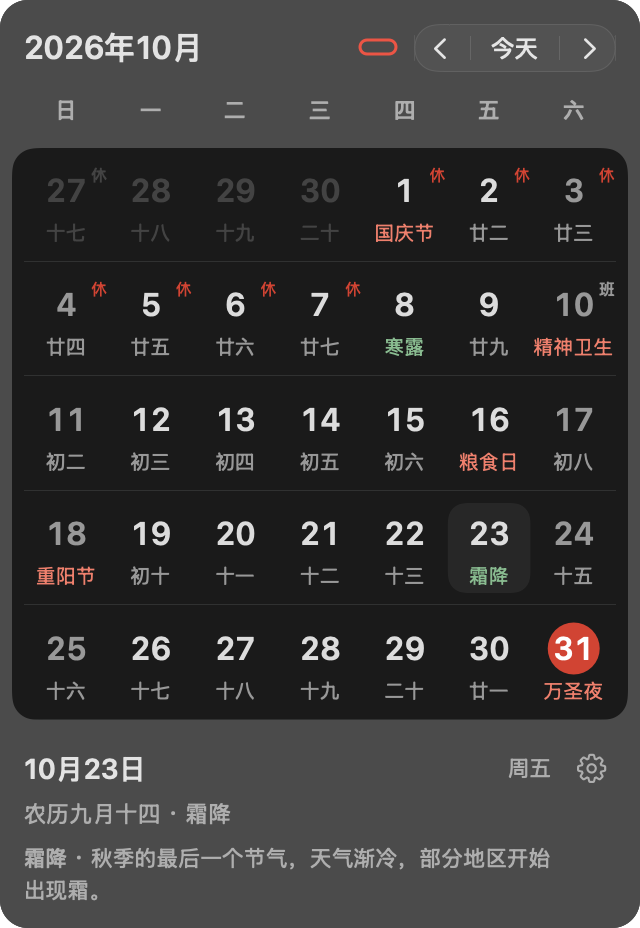
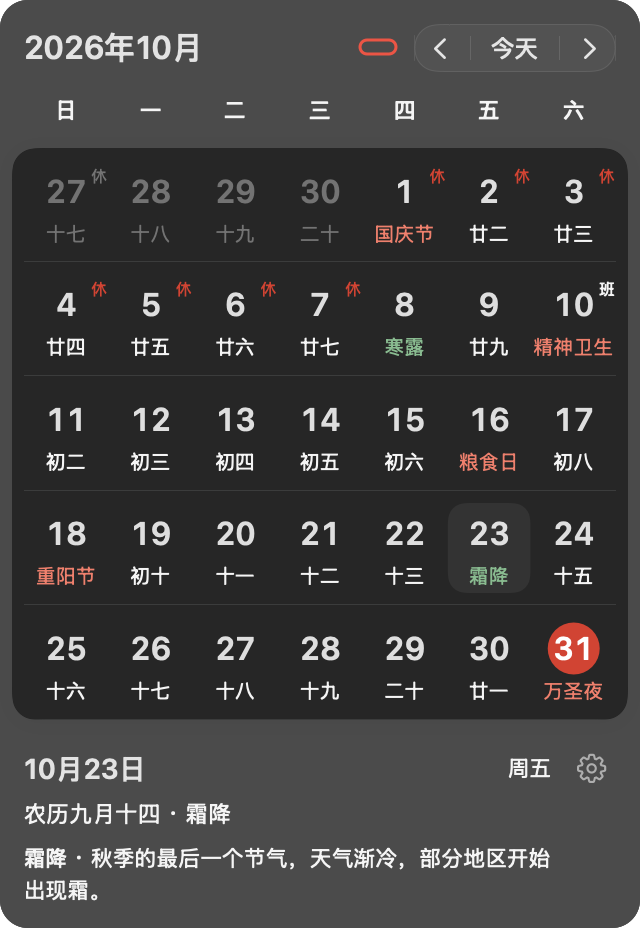
fix(calendar): 将首周选中背景顶部间距统一为6.5点
首周日期、农历和日程标记共用固定顶部位置，六周月份从后续周分配留白，保持整月高度及详情上下8点、6点间距。
补充首周48种界面场景检查，更新布局参考、决策记录和真实展示图。

验证：调试应用构建、日程内容、月年网格、月初吸附、系统日程专项和差异空白检查通过。
切档动画专项未通过：当前版本出现像素交接误差及准备阶段顶部位移；修改前基线也在快速切档顶部位移检查失败，尚不能确认该专项稳定。本次提交复用此前验证结果，未重复运行未受后续修改影响的专项。

diff --git a/Sources/DayOrder/CalendarFirstWeekSmoke.swift b/Sources/DayOrder/CalendarFirstWeekSmoke.swift
@@ -1,0 +1,123 @@
+#if DEBUG
+import AppKit
+import DayOrderCore
+
+@MainActor enum CalendarFirstWeekSmoke {
+    static func verify(model: CalendarModel, presentation: CalendarPresentationController,
+                       source: SmokeCalendarSource, defaults: UserDefaults, directory: URL,
+                       save: (NSView, String) throws -> Void) async throws {
+        func require(_ value: Bool, _ message: String) throws {
+            guard value else { throw NSError(domain: "DayOrder.FirstWeek", code: 1,
+                userInfo: [NSLocalizedDescriptionKey: message]) }
+        }
+        func descendants(_ view: NSView) -> [NSView] { [view] + view.subviews.flatMap(descendants) }
+        func finish() async throws {
+            try await Task.sleep(for: .milliseconds(100))
+            let deadline = Date().addingTimeInterval(5)
+            while model.events.loading || presentation.isTransitioning {
+                try require(Date() < deadline, "首周布局未及时就绪")
+                if presentation.isPreparedForSampling {
+                    presentation.sampleGeometry(deltaTime: 1)
+                    presentation.finishGeometrySampling()
+                }
+                try await Task.sleep(for: .milliseconds(10))
+            }
+            presentation.view.layoutSubtreeIfNeeded()
+            presentation.view.display()
+        }
+        let selection = model.selection
+        let weekday = defaults.object(forKey: "firstWeekday")
+        let appearance = defaults.object(forKey: "appearance")
+        let clock = presentation.controlsAnimationClock
+        presentation.controlsAnimationClock = true
+        defer {
+            presentation.cancelTransition()
+            presentation.controlsAnimationClock = clock
+            model.closeAgenda()
+            model.events.choose(.hidden)
+            defaults.set(weekday, forKey: "firstWeekday")
+            defaults.set(appearance, forKey: "appearance")
+            model.select(selection)
+        }
+        var report: [[String: Any]] = []
+        for (year, month, firstWeekday, count) in [(2026, 2, 1, 4), (2026, 9, 1, 5), (2026, 8, 1, 6),
+                                                  (2021, 2, 2, 4), (2026, 9, 2, 5), (2026, 3, 2, 6)] {
+            defaults.set(firstWeekday, forKey: "firstWeekday")
+            let date = model.engine.date(year, month, 1)
+            let values = (-7..<38).flatMap { offset in
+                (0..<2).map { lane in
+                    let start = model.engine.addingDays(offset, to: date).addingTimeInterval(Double(9 + lane) * 3600)
+                    return CalendarEvent(id: "first-week-\(offset)-\(lane)", title: "日程 \(lane + 1)",
+                        start: start, end: start.addingTimeInterval(1800), allDay: false,
+                        color: .init(red: 0.3, green: 0.45, blue: 0.95), calendarTitle: "测试日历")
+                }
+            }
+            await source.configure(access: .fullAccess, values: values)
+            model.select(date)
+            for mode in [CalendarEventDisplay.hidden, .detailed, .compact, .dots] {
+                model.events.choose(mode)
+                for style in ["light", "dark"] {
+                    defaults.set(style, forKey: "appearance")
+                    try await finish()
+                    guard let table = descendants(presentation.host.view).compactMap({ $0 as? NSTableView })
+                        .first(where: { $0.identifier?.rawValue == "calendarTimeline" }),
+                          let scroll = table.enclosingScrollView else { throw CocoaError(.coderInvalidValue) }
+                    let timeline = model.calendarTimeline(firstWeekday: firstWeekday)
+                    let rows = timeline.weekRows(inMonth: model.engine.monthStart(date))!
+                    try require(rows.count == count, "首周验证月份的周数错误")
+                    let top = table.rect(ofRow: rows.lowerBound).minY
+                    let bottom = table.rect(ofRow: rows.upperBound - 1).maxY
+                    try require(abs(bottom - top - mode.viewportHeight) < 0.01, "首周调整改变整月高度")
+                    try require(abs(table.visibleRect.minY - top) < 0.5, "首周没有对齐卡片顶部")
+                    guard let week = table.view(atColumn: 0, row: rows.lowerBound, makeIfNecessary: true) as? CalendarWeekView,
+                          let button = week.subviews.compactMap({ $0 as? CalendarDayButton }).first(where: { $0.date == date })
+                    else { throw CocoaError(.coderInvalidValue) }
+                    let selected = scroll.convert(button.focusRingMaskBounds, from: button)
+                    let inset = selected.minY - scroll.bounds.minY
+                    // 周内几何精确检查；原生表格累计坐标和滚动视口各自对齐屏幕像素。
+                    let pixel = 1 / (scroll.window?.backingScaleFactor ?? 2)
+                    try require(abs(button.frame.minY + button.focusRingMaskBounds.minY - 6.5) < 0.01
+                                && abs(inset - 6.5) <= pixel + 0.001,
+                                "首周选中灰底顶部间距应为 6.5 pt，实际 \(inset)，\(year)-\(month)，\(mode)")
+                    for row in rows {
+                        guard let view = table.view(atColumn: 0, row: row, makeIfNecessary: true) as? CalendarWeekView
+                        else { throw CocoaError(.coderInvalidValue) }
+                        view.layoutSubtreeIfNeeded()
+                        for day in view.subviews.compactMap({ $0 as? CalendarDayButton }) {
+                            let last = max(day.focusRingMaskBounds.maxY, day.eventMarkers.map { $0.style.frame.maxY }.max() ?? 0)
+                            try require(day.frame.minY >= 0 && day.frame.minY + last <= view.bounds.height - 0.5,
+                                        "日期或日程标记越过周分隔线：第 \(row - rows.lowerBound + 1) 周")
+                        }
+                    }
+                    if mode != .hidden {
+                        let originalTop = button.frame.minY
+                        try require(button.accessibilityPerformPress(), "首周日期无法展开")
+                        try await finish()
+                        let agenda = week.agendaView
+                        let contentBottom = week.subviews.compactMap({ $0 as? CalendarDayButton }).map { day in
+                            day.frame.minY + max(day.focusRingMaskBounds.maxY, day.eventMarkers.map { $0.style.frame.maxY }.max() ?? 0)
+                        }.max()!
+                        try require(!agenda.isHidden && abs(button.frame.minY - originalTop) < 0.01,
+                                    "首周展开改变日期位置")
+                        try require(abs(agenda.frame.minY + 4 - contentBottom - 8) < 0.01,
+                                    "首周日程顶部间距不是 8 pt")
+                        let backgroundBottom = agenda.frame.maxY - CalendarDayAgendaLayout.backgroundBottomInset
+                        try require(abs(week.bounds.height - 0.5 - backgroundBottom - 6) < 0.01,
+                                    "首周日程底部间距不是 6 pt")
+                        if count == 6 && firstWeekday == 1 {
+                            try save(presentation.view, "first-week-\(mode)-\(style)-expanded")
+                        }
+                        model.closeAgenda()
+                        try await finish()
+                    }
+                    report.append(["year": year, "month": month, "firstWeekday": firstWeekday,
+                                   "weeks": count, "mode": "\(mode)", "appearance": style, "topInset": inset,
+                                   "monthHeight": bottom - top])
+                }
+            }
+        }
+        try JSONSerialization.data(withJSONObject: report, options: [.prettyPrinted, .sortedKeys])
+            .write(to: directory.appendingPathComponent("first-week-geometry.json"))
+    }
+}
+#endif

diff --git a/Sources/DayOrder/CalendarTimelineView.swift b/Sources/DayOrder/CalendarTimelineView.swift
@@ -483,18 +483,24 @@ struct CalendarTimelineView: NSViewRepresentable {
             switch timeline.rows[row] {
             case .month: return 30
             case .week:
-                let base = baseWeekHeight(row, in: tableView)
-                guard agendaRow == row else { return base }
-                let dateTop = (base - 46 - eventMode.extraRowHeight) / 2
-                return dateTop + agendaContentBottom + 4 + agendaHeight
+                let layout = weekLayout(row, in: tableView)
+                guard agendaRow == row else { return layout.height }
+                return layout.dateTop + agendaContentBottom + 4 + agendaHeight
             }
         }
-        private func baseWeekHeight(_ row: Int, in tableView: NSTableView) -> CGFloat {
+        private func weekLayout(_ row: Int, in tableView: NSTableView) -> (height: CGFloat, dateTop: CGFloat) {
             let weeks = timeline.weekRows(inMonth: timeline.rows[row].sectionMonth)!
             let scale = tableView.window?.backingScaleFactor ?? 2
-            let unit = eventMode.viewportHeight * scale / CGFloat(weeks.count)
-            let index = CGFloat(row - weeks.lowerBound)
-            return (floor((index + 1) * unit) - floor(index * unit)) / scale
+            let contentHeight = CalendarDayButton.feedbackHeight + eventMode.extraRowHeight
+            let firstTop = CalendarTimelineView.contentInset
+            let total = eventMode.viewportHeight * scale
+            // 六周月份为首周顶部留白腾出空间，日期与标记仍完整位于分隔线上方。
+            let first = max(floor(total / CGFloat(weeks.count)), ceil((firstTop + contentHeight + 0.5) * scale))
+            if row == weeks.lowerBound { return (first / scale, firstTop) }
+            let unit = (total - first) / CGFloat(weeks.count - 1)
+            let index = CGFloat(row - weeks.lowerBound - 1)
+            let height = (floor((index + 1) * unit) - floor(index * unit)) / scale
+            return (height, (height - contentHeight) / 2)
         }
 
         func tableView(_ tableView: NSTableView, shouldSelectRow row: Int) -> Bool { false }
@@ -537,7 +543,7 @@ struct CalendarTimelineView: NSViewRepresentable {
                 days[start] = values
             }
             view.configure(days: values, sectionMonth: sectionMonth, model: model, options: options,
-                           baseHeight: baseWeekHeight(row, in: table!), contentBottom: agendaContentBottom)
+                           dateTop: weekLayout(row, in: table!).dateTop, contentBottom: agendaContentBottom)
         }
     }
 }
@@ -564,7 +570,7 @@ final class CalendarWeekView: NSView {
     private let buttons = (0..<7).map { _ in CalendarDayButton(frame: .zero) }
     let agendaView = CalendarDayAgendaView(frame: .zero)
     private var agendaHeight: CGFloat = 0
-    private var baseHeight: CGFloat = 0
+    private var dateTop: CGFloat = 0
     private var contentBottom: CGFloat = 46
     override var isFlipped: Bool { true }
 
@@ -594,8 +600,8 @@ final class CalendarWeekView: NSView {
     }
 
     func configure(days: [DayInfo], sectionMonth: Date, model: CalendarModel, options: CalendarContentOptions,
-                   baseHeight: CGFloat, contentBottom: CGFloat) {
-        self.baseHeight = baseHeight
+                   dateTop: CGFloat, contentBottom: CGFloat) {
+        self.dateTop = dateTop
         self.contentBottom = contentBottom
         let mode = model.events.mode
         if let agenda = model.agenda, agenda.month == sectionMonth,
@@ -635,7 +641,7 @@ final class CalendarWeekView: NSView {
         for (index, button) in buttons.enumerated() {
             let height = 46 + button.eventMode.extraRowHeight
             // 展开时裁去日期格底部空白，避免动画快照把详情重复裁入日期底图。
-            button.frame = NSRect(x: inset + CGFloat(index) * width, y: (baseHeight - height) / 2,
+            button.frame = NSRect(x: inset + CGFloat(index) * width, y: dateTop,
                                   width: width, height: agendaView.isHidden ? height : max(CalendarDayButton.feedbackHeight, contentBottom))
         }
         agendaView.frame = NSRect(x: inset, y: bounds.height - agendaHeight, width: bounds.width - 2 * inset, height: agendaHeight)

diff --git a/Sources/DayOrder/AppDelegate.swift b/Sources/DayOrder/AppDelegate.swift
@@ -285,6 +285,10 @@ final class AppDelegate: NSObject, NSApplicationDelegate {
                         source: source, directory: directory,
                         close: { self.panel.close() }, reopen: { self.showPanel() })
                 }
+                try await CalendarFirstWeekSmoke.verify(model: model, presentation: presentation, source: source,
+                    defaults: defaults, directory: directory) { view, name in
+                    try self.saveViewSnapshot(view, name: name, to: directory)
+                }
                 try await CalendarAgendaSmoke.verify(model: model, presentation: presentation, source: source,
                     defaults: defaults, directory: directory) { view, name in
                     try self.saveViewSnapshot(view, name: name, to: directory)

diff --git a/docs/verification.md b/docs/verification.md
@@ -26,7 +26,7 @@
 python3 scripts/run-smoke.py "$PWD/build/agenda-smoke" --calendar-agenda-smoke
 ```
 
-该检查通过生产日期按钮、原生周行和展示控制器，覆盖首次选择、再次展开／收起、展开动画与端点的窗口／可视区尺寸不变、底部详情固定、后续周行下移与收起归位、月末日程通过滚动日历完整可见、切日重置、12 项日程的内部滚动与到底提示、固定剩余数量提示、少量自适应和空状态、深浅色、周日／周一起始、月末跨日日程、快速反向、减少动态效果、设置与年概览返回、月份导航和 Esc 分层收起。导航回归通过真实“今天”按钮覆盖一月一日、今天和当月其他日期展开后滚动到邻月，再返回今天：记录 `agenda-navigation.json` 中的中间滚动位置，要求原详情保留且没有淡入过渡；选中日期与展开日期不同时，点击选中日期可切换详情。另覆盖从 2027 年 3 月返回 2026 年 11 月，先确认原日期离开查询范围，再要求一次点击到达目标；返回末段详情可见时注入事件更新，要求更新已生效且导航未被取消、没有详情淡入。通过生产弹窗关闭／打开入口验证清空与默认收起。设置与年概览只暂时离开详情页面，不清除展开选择。挂起读取验证加载状态与隐藏后的迟到结果，另验证读取失败、隐藏时不访问权限或数据，以及展开时删除事件同步刷新。输出 `agenda.json`、`agenda-{light,dark}-{opening,expanded,scrolled}.png`、`agenda-last-week-{2,8}.png` 与 `result.txt`。`agenda-edge.json` 和 `agenda-edge-{light,dark}-{opening,closing}.png` 另覆盖十二月自由浏览，逐帧比较 13–19 日与 20–26 日的位移及绘制透明度，验证后者完全移出可视区及重新进入时持续平移且不淡出。`agenda-spacing.json` 与 `agenda-spacing-{light,dark}-{empty,one,two-other-day,overflow,span}.png` 检查整周零行、一行、两行、其他日期多项、溢出计数和跨日段，覆盖详细、精简、圆点模式下详情灰底距整周最后标记底边或空周选中日期背景底边 8 pt、日期位置与窗口尺寸不变、日期快照区域不与详情重叠、详情下方不残留回收的空白。`agenda-rows.json` 与 `agenda-rows-{light,dark}-{1,2,3}.png` 检查单行长标题、完整悬停文本及一至三项日程的分隔线像素，分隔线数量须为日程数量减一；实心字形样例检查标题正文与尾部透明度，确认右端渐隐。标题点击回归在深浅色下各对长短标题执行两次真实鼠标点击，确认进入系统文字选择状态、字体与完整文本不变；保留实时选择焦点并单独采集底层字段绘制，检查无重复字形，退出选择后与点击前逐像素比较，确认渐隐恢复。`agenda-title-{light,dark}-{long,short}-{selected-1,selected-2,restored}.png` 保留对应画面；原实现必须在底层重复绘制断言失败。长标题右侧渐隐、时间和来源日历名需人工检查截图；本专项不证明真实账户同步、物理触控板手感、旁白完整体验或不同显示器上的实际操作体验。
+该检查先生成 `first-week-geometry.json` 和 `first-week-{detailed,compact,dots}-{light,dark}-expanded.png`，通过真实周行检查周日／周一起始的四至六周月份、四种日程模式及深浅色：首周选中灰底的周内顶部位置精确为 6.5 pt（转换到屏幕坐标允许原生表格与视口取整造成的一个物理像素误差）、整月高度不变、日期和标记不越过分隔线、首周展开保持日期原位及详情上方 8 pt／下方 6 pt 间距。旧均分居中实现须在首周顶部间距断言失败。随后通过生产日期按钮、原生周行和展示控制器，覆盖首次选择、再次展开／收起、展开动画与端点的窗口／可视区尺寸不变、底部详情固定、后续周行下移与收起归位、月末日程通过滚动日历完整可见、切日重置、12 项日程的内部滚动与到底提示、固定剩余数量提示、少量自适应和空状态、深浅色、周日／周一起始、月末跨日日程、快速反向、减少动态效果、设置与年概览返回、月份导航和 Esc 分层收起。导航回归通过真实“今天”按钮覆盖一月一日、今天和当月其他日期展开后滚动到邻月，再返回今天：记录 `agenda-navigation.json` 中的中间滚动位置，要求原详情保留且没有淡入过渡；选中日期与展开日期不同时，点击选中日期可切换详情。另覆盖从 2027 年 3 月返回 2026 年 11 月，先确认原日期离开查询范围，再要求一次点击到达目标；返回末段详情可见时注入事件更新，要求更新已生效且导航未被取消、没有详情淡入。通过生产弹窗关闭／打开入口验证清空与默认收起。设置与年概览只暂时离开详情页面，不清除展开选择。挂起读取验证加载状态与隐藏后的迟到结果，另验证读取失败、隐藏时不访问权限或数据，以及展开时删除事件同步刷新。输出 `agenda.json`、`agenda-{light,dark}-{opening,expanded,scrolled}.png`、`agenda-last-week-{2,8}.png` 与 `result.txt`。`agenda-edge.json` 和 `agenda-edge-{light,dark}-{opening,closing}.png` 另覆盖十二月自由浏览，逐帧比较 13–19 日与 20–26 日的位移及绘制透明度，验证后者完全移出可视区及重新进入时持续平移且不淡出。`agenda-spacing.json` 与 `agenda-spacing-{light,dark}-{empty,one,two-other-day,overflow,span}.png` 检查整周零行、一行、两行、其他日期多项、溢出计数和跨日段，覆盖详细、精简、圆点模式下详情灰底距整周最后标记底边或空周选中日期背景底边 8 pt、日期位置与窗口尺寸不变、日期快照区域不与详情重叠、详情下方不残留回收的空白。`agenda-rows.json` 与 `agenda-rows-{light,dark}-{1,2,3}.png` 检查单行长标题、完整悬停文本及一至三项日程的分隔线像素，分隔线数量须为日程数量减一；实心字形样例检查标题正文与尾部透明度，确认右端渐隐。标题点击回归在深浅色下各对长短标题执行两次真实鼠标点击，确认进入系统文字选择状态、字体与完整文本不变；保留实时选择焦点并单独采集底层字段绘制，检查无重复字形，退出选择后与点击前逐像素比较，确认渐隐恢复。`agenda-title-{light,dark}-{long,short}-{selected-1,selected-2,restored}.png` 保留对应画面；原实现必须在底层重复绘制断言失败。长标题右侧渐隐、时间和来源日历名需人工检查截图；本专项不证明真实账户同步、物理触控板手感、旁白完整体验或不同显示器上的实际操作体验。
 
 日程内容专项同时通过真实鼠标按下、延时松开检查日期背景反馈，记录 `day-feedback-{0,1}.json`（浅色、深色）的中间不透明度及实际绘制像素，保存恢复态和按压中间态图片。覆盖选中日期的渐变、快速反向、未选中日期松开与选中交接、减少动态效果和视图移除后的帧驱动停止。临时禁用插值时必须在“真实按下没有背景颜色中间态”断言失败；合成鼠标事件和像素取样不证明物理显示刷新率。
 

diff --git a/docs/calendar-reference.md b/docs/calendar-reference.md
@@ -7,7 +7,7 @@
 - 点击菜单栏日期打开或关闭日历，点击外部关闭；Esc（退出键）逐层返回，在月视图中优先收起当天日程，再关闭弹窗。每次重新打开均回到本月并选中今天，退出设置和年月选择界面、清空年份草稿，保留显示偏好。
 - 点击左上角年月进入两列年概览：上下连续滚动浏览 1901–2100 年，不显示右侧滚动条，点击整个小月历进入该月。年份旁的铅笔可打开输入框，回车或“跳转”定位到指定年份；输入无效时禁用跳转。输入年份和滚动不改变选中日期，点击月份时保留日号，短月取月末。
 - 中间日期区支持触控板和鼠标滚轮连续纵向浏览，滚动时不显示右侧滚动条。手势与惯性期间自由移动；停止后，若日期区顶部落在该月前两行周行内（含邻月补位日期），则平滑吸附到第一行顶部并完整显示该月；从第三行起点开始保留自由位置。月初第一行尚在顶部下方且距离不超过 44 pt 时，也会吸附到该月。前两行范围随月份实际行高变化，四至六周月份遵循相同规则。再次滚动恢复自由浏览，不改变选中日期或底部详情。各月份区块依次排列，跨月处显示月份标题，跨年时包含年份；每个月首尾补齐完整周行，支持范围之外的日期留空。
-- 隐藏日程时，每个月的四至六周均分在 286 pt 高度内；详细、精简和圆点模式分别增加日期区高度至 466、370 和 346 pt，自由浏览与吸附采用相同行高。吸附只平滑移动日期区，将月份标题移到视口上方，不隐藏行或重新排布日期；月份导航、年概览选择和“今天”也以整月显示。返回设置或年概览时恢复此前的吸附状态或自由滚动位置。
+- 隐藏日程时，每个月的四至六周排布在 286 pt 高度内；详细、精简和圆点模式分别增加日期区高度至 466、370 和 346 pt。首周日期内容顶部留白为 6 pt，月初对齐时选中灰底上边缘距日期区卡片顶部为 6.5 pt，与左侧留白一致；数字、农历和日程标记一同定位。首周高度至少容纳完整内容和分隔线，其余高度按显示器像素边界分配给后续周，后续周内容继续垂直居中。自由浏览与吸附采用相同布局。吸附只平滑移动日期区，将月份标题移到视口上方，不隐藏行或重新排布日期；月份导航、年概览选择和“今天”也以整月显示。返回设置或年概览时恢复此前的吸附状态或自由滚动位置。
 - 顶部年月、星期栏和底部详情不随日期区滚动。顶部年月跟随最上方可见行所属的月份区块。滚动只改变浏览月份，点击日期更新选择和详情并保留滚动位置。每个区块内，仅用于补齐周行的邻月日期数字、农历、节日及休班标记共用弱化颜色：浅色模式使用灰白，深色模式使用暗灰，日期仍可点击；本区块日期保持正常配色，不受顶部年月影响。边界周可能同时出现在相邻月份区块中，作为本月日期时正常显示，作为邻月补位时置灰。
 - 右上角的左右箭头和“今天”组成一体胶囊导航，三个按钮各自响应悬停与按下，年份范围边界处对应箭头置灰禁用。左右箭头从正在浏览的月份切换，保留选中日号，短月取月末，并以约 360 ms 先快后缓、无回弹的纵向动画展示目标整月。连续点击按已请求月份累计，反向点击从当前画面接续；月视图的“今天”采用与箭头一致的先快后缓、无回弹非线性动画，从当前日期区位置滚回今天所在月份，到达后选中今天并更新详情；动画约 0.45–0.70 秒，远距离移动加速，已经完整显示当月时不额外移动。手动滚动、选择其他日期、再次导航或离开月视图会取消旧动画；系统开启“减少动态效果”时直接定位。进入设置或年概览后返回保留浏览位置，从年概览选择月份则定位到目标月。
 - 朱红圆形表示今天，无描边的浅灰连续圆角底表示选中日期。选中底色、按下反馈与键盘焦点只包住日期数字及农历／节日文字，不延伸到日程区域；点击范围仍包含整个日期格。日期格不显示日程展开／收起箭头。

diff --git a/docs/notes/implemented/bug-fix/2026-11-10-agenda-week-spacing.md b/docs/notes/implemented/bug-fix/2026-11-10-agenda-week-spacing.md
@@ -8,7 +8,7 @@ Status: implemented
 
 ## Decision
 
-补充[当天日程展开](../feature/2026-11-10-inline-day-agenda.md)的周内布局决定。普通周仍采用原有均分高度；展开周保留日期数字原位置，按整周实际绘制标记的最末底边放置详情，至少容纳日期与农历区域。复用标记几何，计入跨日分行和溢出计数，不用所选日的事件数量推断整周占用。详情背景与最后一行标记间隔 8 pt（视图前置 4 pt 加背景内缩 4 pt）。整周没有标记时，以选中日期背景的最下边缘定位，保持相同的 8 pt；该底边由日期反馈区域高度和内缩量共同决定，布局与绘制复用这两个几何值。周高只增加详情扣除回收空白后的净高度。灰底底边与下方周分隔线上沿保留 6 pt 净间距；底部绘制内缩包含分隔线高度，详情总高度同步增加留白，保持灰底高度、正文位置和顶部间距不变。最大详情高度采用同一底部留白，确保边缘动画采样范围完整。
+补充[当天日程展开](../feature/2026-11-10-inline-day-agenda.md)的周内布局决定。基础周高沿用[首周顶部留白](2026-11-11-first-week-top-inset.md)的分配方式；展开周保留日期数字原位置，按整周实际绘制标记的最末底边放置详情，至少容纳日期与农历区域。复用标记几何，计入跨日分行和溢出计数，不用所选日的事件数量推断整周占用。详情背景与最后一行标记间隔 8 pt（视图前置 4 pt 加背景内缩 4 pt）。整周没有标记时，以选中日期背景的最下边缘定位，保持相同的 8 pt；该底边由日期反馈区域高度和内缩量共同决定，布局与绘制复用这两个几何值。周高只增加详情扣除回收空白后的净高度。灰底底边与下方周分隔线上沿保留 6 pt 净间距；底部绘制内缩包含分隔线高度，详情总高度同步增加留白，保持灰底高度、正文位置和顶部间距不变。最大详情高度采用同一底部留白，确保边缘动画采样范围完整。
 
 日期按钮同步裁去未使用的底部区域，避免周位图裁切时把上移后的详情重复纳入日期动画；按钮至少保留完整的 46 pt 日期反馈区域，不能随背景的内缩底边裁掉选中轮廓。协调器缓存展开周的内容底边，仅在日期选择、周起始日、显示模式或事件修订变化时重算，不在滚动行高查询中创建标记。事件补回引起的周高变化仍遵循既有导航连续性约定。
 

diff --git a/docs/notes/implemented/feature/2026-11-06-system-calendar-events.md b/docs/notes/implemented/feature/2026-11-06-system-calendar-events.md
@@ -12,7 +12,7 @@ Status: implemented
 
 默认隐藏，只有主动选择非隐藏模式才请求授权；系统没有只读授权档位，应用只读取。用户选择隐藏或应用退出会使已有查询失效，权限拒绝及撤销清空投影；查询返回后重新检查授权，阻止迟到结果重新显示私有日程。正在进行的系统授权请求由一个共享任务拥有，因为应用无法关闭系统弹窗，切月与模式变化只使旧消费者失效，不重复发起授权。
 
-沿用原生日期按钮绘制和 NSTableView（原生表格视图）复用。显示模式只增加整月的日期区高度，保持每个月四至六周均分、完整显示整月、滚动吸附和原有上下栏。行高变化后先恢复视口，再配置最终可见周行，避免复用视图遗留旧模式或旧旁白内容。图标菜单填入月份标题与导航之间的现有弹性留白，不增加工具栏。隐藏且投影为空时不发布无效刷新，避免独立日程状态干扰原有页面交接；同一轮发生模式切换与显式导航时，以新导航为准，不能恢复旧视口。
+沿用原生日期按钮绘制和 NSTableView（原生表格视图）复用。显示模式只增加整月的日期区高度，保持每个月四至六周完整显示、滚动吸附和原有上下栏；均分周高的约束由[首周顶部留白](../bug-fix/2026-11-11-first-week-top-inset.md)部分取代。行高变化后先恢复视口，再配置最终可见周行，避免复用视图遗留旧模式或旧旁白内容。图标菜单填入月份标题与导航之间的现有弹性留白，不增加工具栏。隐藏且投影为空时不发布无效刷新，避免独立日程状态干扰原有页面交接；同一轮发生模式切换与显式导航时，以新导航为准，不能恢复旧视口。
 
 本记录部分扩展[原生离线日历](../architecture/2026-10-23-native-offline-calendar.md)关于不接入系统日历的首版范围；离线历法、日期标注与资源规则继续由原记录拥有。
 

diff --git a/docs/notes/implemented/bug-fix/2026-11-11-first-week-top-inset.md b/docs/notes/implemented/bug-fix/2026-11-11-first-week-top-inset.md
@@ -1,0 +1,23 @@
+# Agent Note: First Week Top Inset
+
+Status: implemented
+
+## Problem
+
+周行均分整月高度并垂直居中日期内容，使首周选中背景到卡片顶部的留白随月份周数和日程模式变化，无法与左侧 6.5 pt 留白保持一致。六周月份直接下移内容会碰到分隔线。
+
+## Decision
+
+首周日期内容顶部固定为 6 pt，选中背景内收 0.5 pt 后得到 6.5 pt 可见间距。数字、农历、标记和选中反馈共用位置。首周高度取原均分高度与完整内容所需高度的较大值，包含下方分隔线；后续周均分剩余空间并按显示器像素边界分配，内容继续垂直居中，整月高度不变。
+
+协调器统一提供周高与日期顶部位置，普通周绘制和展开行高使用同一来源，保持[日程周内间距](2026-11-10-agenda-week-spacing.md)的 8 pt／6 pt 约定。此决定部分取代[吸附布局稳定性](2026-10-24-calendar-snap-layout-stability.md)与[系统日历显示](../feature/2026-11-06-system-calendar-events.md)中的均分规则；同一月份在自由浏览和吸附时仍采用完全相同的几何，吸附只移动视口。
+
+## Alternatives considered
+
+- 只移动选中背景：背景与数字、农历和点击区域错位，不能表达整组日期的顶部留白。
+- 所有周都固定顶部 6 pt：六周月份无法容纳完整内容，需要增高视口或裁切日期。
+- 只在吸附后改变首周布局：重新引入吸附前后重排，与稳定浏览决定冲突。
+
+## Consequences
+
+六周月份的后续周比首周紧凑；四、五周通常只改变首周内容位置。真实界面检查覆盖两种星期起始、四至六周、四档显示、深浅色、首周详情展开和标记边界；旧实现作为负向控制在四周隐藏模式测得 13.25 pt 并触发 6.5 pt 断言。月初吸附与模式切换专项继续约束滚动和动画，快照不代替不同显示器上的人工体验。

diff --git a/docs/notes/implemented/bug-fix/2026-10-24-calendar-snap-layout-stability.md b/docs/notes/implemented/bug-fix/2026-10-24-calendar-snap-layout-stability.md
@@ -8,7 +8,7 @@ Status: implemented
 
 ## Decision
 
-每个月份区块在整个浏览生命周期内采用相同几何布局：其完整周行按固定视口高度和显示器像素边界均分，月份标题始终保留。吸附只移动视口，标题自然离开可见区域。核心时间线通过已有月份索引提供完整周区间，避免 UI 重新推算月份范围或维护平行索引。
+每个月份区块在整个浏览生命周期内采用相同几何布局：其完整周行按固定视口高度和显示器像素边界分配，月份标题始终保留。首周与后续周的均分方式由[首周顶部留白](2026-11-11-first-week-top-inset.md)部分取代，浏览与吸附共用几何的决定继续有效。吸附只移动视口，标题自然离开可见区域。核心时间线通过已有月份索引提供完整周区间，避免 UI 重新推算月份范围或维护平行索引。
 
 移除吸附状态切换中的隐藏行、行高失效通知和强制同步布局。动画按实际经过时间插值，并在起止处缓动；新手势只取消任务和吸附状态，保留当下位置，不恢复另一套布局。每次动画更新检查导航版本、窗口可见性及当前界面，防止已离开的界面继续滚动。
 
